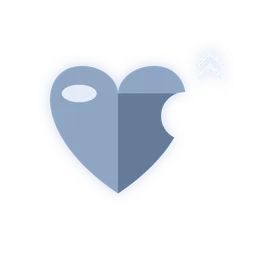
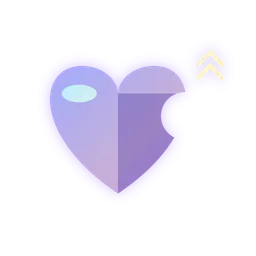
Coraza Titán carga al atacar y al recibir golpes (ataques y habilidades, sin contar quemaduras); el oro de la victoria se cobra en cuanto acaba tu combate (resolveFight desde payCombatGold) y no al resolver la ronda; Pacto Cruel solo prismático y solo en 2-1 (icono en lila); coste 5 a 3★ imposible d

Changed region(s): [[0.1875, 0.25, 0.7188, 0.75], [0.75, 0.1875, 0.875, 0.3125]]

diff --git a/public/game.js b/public/game.js
@@ -105,7 +105,10 @@ const STAR=[1,1.8,3.24];
 // Tanques a 2★: +20% de vida y +15 de defensa y resistencia, para que aguanten lo que cuestan sin ser inmortales con objetos
 const TANK2={hp:1.2,res:15};
 // A 3★ los costes altos se disparan: los costes 4 y 5 de 3 estrellas son casi una victoria asegurada (como en TFT)
-const STAR3_BY_COST=[3.24,3.24,3.4,5,10], ABIL3_BY_COST=[3,3.1,3.3,6,15];
+const STAR3_BY_COST=[3.24,3.24,3.4,5,10], ABIL3_BY_COST=[3,3.1,3.3,6,40];
+// Coste 5 a 3★: imposible de vencer salvo por otro coste 5 a 3★, aunque esté sola (medido con leg3.js alone: 100 % contra tableros de nivel 9
+// con costes 4 a 3★ y costes 5 a 2★, con y sin objetos): empieza con el maná lleno, recupera 40 por segundo y recibe un 30 % menos de daño
+const C5_3={mana:40,dr:.3};
 const ABIL_BASE=[180,250,330,520,600], ABIL_STAR=[1,1.5,2.6];
 const ROLE_NAME={t:'Tanque',b:'Cuerpo a cuerpo',a:'Asesino',r:'Tirador',m:'Mago',h:'Soporte'};
 
@@ -209,6 +212,7 @@ const MEGAS=[
 const ANVILS=[{key:'yunque',name:'Yunque de componentes',names:null,dex:'anvil',cost:1,role:'t',traits:[],ab:[['shield','—',{m:0}]],anvil:'c'},
  {key:'yunque_oro',name:'Yunque de objetos',names:null,dex:'anvil:oro',cost:1,role:'t',traits:[],ab:[['shield','—',{m:0}]],anvil:'f'}];
 const DEF={}; for(const u of [...UNIT_LIST,...EVOS,...MEGAS,...ANVILS]) DEF[u.key]=u;
+for(const u of UNIT_LIST) if(u.cost===5) for(const a of u.ab||[]) a[2].c5=1; // marca para el texto de la habilidad a 3★ (abDesc no conoce el coste)
 DEF.lugia.hpm=1.12; // Lugia: menos daño pero más aguante
 DEF.giratina.mult=.9; // Giratina: empieza más flojo y crece devorando (ghp/gad altos): pide objetos y tiempo
 // Forma de cada estrella. Los costes 4 de 3 formas empiezan en su 2.ª forma (Pupitar, Kirlia, Gabite…):
@@ -448,6 +452,7 @@ function abDesc(ab,P,star){
  if(p.mega) t+=` Forma Mega: cada lanzamiento le da +6% de vida máxima, +8 de poder y +8% de ataque durante el combate.`;
  if(p.selfAs&&k!=='dash') t+=` Gana +${R0(p.selfAs*100)}% de vel. de ataque (se acumula durante el combate).`;
  if(star>=3) t+=` ★★★: cada lanzamiento la hace más fuerte (+20%, o +25% en costes 4 y 5), sin límite.`;
+ if(star>=3&&p.c5) t+=` Coste 5 a ★★★: empieza con el maná lleno, recupera ${C5_3.mana} de maná por segundo y recibe un ${R0(C5_3.dr*100)}% menos de daño.`;
  return t;
 }
 
@@ -473,7 +478,7 @@ const FULL=[
  ['wing','wing','scarf','Pañuelo Elegido','🧣','+30% de velocidad de ataque y +1 de alcance.',{asPct:.3,range:1}],
  ['wing','spoon','rage','Cinta Furia','😤','Cada ataque le da +6% de velocidad de ataque, sin límite durante el combate.',{},{rage:.06}],
  ['wing','water','light','Bola Luminosa','💡','Cada 3 ataques lanza un rayo a 3 enemigos (70 de daño mágico).',{},{zap:70}],
- ['wing','coat','titan','Coraza Titán','🦾','Cada golpe recibido le da +2% de daño (máx. 25 veces).',{},{titan:.02}],
+ ['wing','coat','titan','Coraza Titán','🦾','Gana una carga al atacar y cada vez que le golpean (ataques o habilidades): +2% de daño por carga (máx. 25).',{},{titan:.02}],
  ['wing','goggles','twin','Garra Doble','✌','Sus ataques golpean a un segundo enemigo por el 50%.',{},{split:.5}],
  ['wing','club','quick','Polvo Veloz','💨','+25% de velocidad de ataque y +150 de vida adicionales.',{asPct:.25,hp:150}],
  ['wing','lens','razorfang','Colmillo Afilado','🐺','Sus críticos reducen la defensa del objetivo un 30%.',{},{shred:.3}],
@@ -704,7 +709,7 @@ function rebuildCombat(a,b,R,seed,evs,t){
 }
 function liveItems(p,inst){
  if(G.phase!=='combat') return;
- const f=(G.fights||[]).find(x=>x.a===p||(x.b===p&&!x.ghost)); if(!f||!f.c) return;
+ const f=(G.fights||[]).find(x=>x.a===p||(x.b===p&&!x.ghost)); if(!f||!f.c||f.resolved) return; // ya acabó y se cobró: no se vuelve a simular
  const side=f.a===p?0:1, bk=Object.keys(p.board).find(k=>p.board[k]===inst); if(!bk) return;
  if(!G.mp){ if(!f.c.done) applyLiveItems(f.c,side,bk,inst.items.slice()); return; }
  const t=Math.max(0,Math.ceil(((Date.now()-f.t0)/1000*G.speed)/DT)*DT), ev={t,side,bk,items:inst.items.slice()};
@@ -869,7 +874,7 @@ function applyStats(u,s){
 function baseCombatUnit(d,side,star,rand=Math.random){
  const ro=ROLE[d.role], cm=d.cost-1, s=star>=3?STAR3_BY_COST[cm]:STAR[star-1], em=d.mult||1, ab=abOf(d,star), t2=d.role==='t'&&star>=2, hm=em*(d.hpm||1)*(t2?TANK2.hp:1), rs=t2?TANK2.res:0;
  return {side,d,star,cost:d.cost,name:nameOf(d,star),ab,maxHp:ro.hp*HPM[cm]*s*hm,ad:ro.ad*ADM[cm]*s*em,hp0:ro.hp*HPM[cm]*s*hm,ad0:ro.ad*ADM[cm]*s*em,as:ro.as,range:ro.range,df:ro.df+rs,mr:ro.mr+rs,ap:0,
-   mana:ab[2].mana0!=null?ab[2].mana0:ro.mana,maxMana:ab[2].mm||ro.maxMana,critC:.25,critM:1.4,dodge:0,burnPct:0,manaPerAtk:0,regen:0,manaRegen:0,omni:0,dr:0,bully:0,shock:0,
+   mana:d.cost===5&&star>=3?(ab[2].mm||ro.maxMana):ab[2].mana0!=null?ab[2].mana0:ro.mana,maxMana:ab[2].mm||ro.maxMana,critC:.25,critM:1.4,dodge:0,burnPct:0,manaPerAtk:0,regen:0,manaRegen:d.cost===5&&star>=3?C5_3.mana:0,omni:0,dr:d.cost===5&&star>=3?C5_3.dr:0,bully:0,shock:0,
    focus:false,berry:false,dmgBonus:0,shield:0,shieldT:0,startShield:0,stun:0,sleepT:0,stealth:0,tdr:0,tdrT:0,reflT:0,reflPct:0,empN:0,empDmg:0,empStun:0,glow:0,
    atkCd:.25+rand()*.35,moveCd:rand()*.2,target:null,burns:[],dead:false,kills:0,flash:0,mt:1,role:d.role,items:[],ref:null,sp:{},atkN:0,titanN:0};
 }
@@ -1034,7 +1039,9 @@ function dealDamage(cb,src,t,raw,kind,silent,crit){
  if(t.shield>0){ const a=Math.min(t.shield,dmg); t.shield-=a; dmg-=a; }
  t.hp-=dmg; if(!silent) t.flash=.12;
  if(cb.caster&&src===cb.caster){ cb.cDmg+=dmg; cb.cHits.add(t); }
- if(kind!=='true'){ t.mana+=Math.min(dmg*.04,12); if(t.sp.titan&&t.titanN<25){ t.titanN++; t.dmgBonus+=t.sp.titan; } }
+ if(kind!=='true') t.mana+=Math.min(dmg*.04,12);
+ // Coraza Titán: carga con cada golpe recibido de un enemigo, sea ataque o habilidad, también de daño verdadero; las quemaduras y venenos (silent) no cuentan, o se llenaría al instante
+ if(t.sp.titan&&!silent&&src&&src.side!==t.side) titanStack(t);
  if(t.reflT>0&&src&&src!==t&&kind!=='true'&&!src.dead) dealDamage(cb,t,src,dmg*t.reflPct,'true',true);
  if(src&&src.omni&&!src.dead) heal(src,dmg*src.omni);
  if(!silent&&dmg>=1){ fxText(cb,t,crit?R0(dmg)+'!':R0(dmg),crit?'#ffb400':kind==='magic'?'#7fb6ff':'#ffffff',crit); if(cb.visual) fx(cb,{type:'hit',u:t,src,crit,kind,el:unitEl(src),k:Math.min(1,dmg/Math.max(1,t.maxHp)*4),life:.4}); }
@@ -1087,7 +1094,10 @@ function hitFx(cb,u,e,amt,p){
  if(p.chill) e.chillT=Math.max(e.chillT||0,p.chill);
  if(p.wound) e.woundT=Math.max(e.woundT||0,p.wound);
 }
+// Coraza Titán: +2 % de daño por carga, hasta 25 (carga al atacar y al recibir golpes)
+const titanStack=u=>{ if(u.titanN<25){ u.titanN++; u.dmgBonus+=u.sp.titan; } };
 function attack(cb,u,t){
+ if(u.sp.titan) titanStack(u);
  const crit=cb.rng()<u.critC; const dmg=u.ad*(crit?u.critM:1);
  const el0=u.d.traits&&u.d.traits.find(x=>FX_EL.has(x));
  fx(cb,u.range>1?{type:'proj',fc:u.c,fr:u.r,tc:t.c,tr:t.r,color:typeColor(u.d),el:el0,life:.22,atk:1}:{type:'swing',c:u.c,r:u.r,tc:t.c,tr:t.r,el:el0,life:.18});
@@ -1504,6 +1514,7 @@ function pveLootKeys(p,R){ const L=pveSpec(R); return [...(R.s>1||R.n===3?['mag'
 function payCombatGold(final){
  if(G.phase!=='combat'&&!final) return;
  for(const f of G.fights||[]){ const c=f.c; if(!c||!c.gold) continue; const el=final?Infinity:(Date.now()-(f.t0||0))/1000*G.speed; f.paid=f.paid||[0,0];
+   if(!final&&!f.resolved&&c.done&&el>=c.t){ resolveFight(f); if(!SERVER) renderUI(); } // el resultado (y su oro) al acabar ese combate
    for(const [p,sd] of [[f.a,0],[f.pve||f.ghost?null:f.b,1]]){ if(!p) continue;
      const due=final?c.gold[sd]:(c.goldEv||[]).reduce((a,e)=>a+(e[1]===sd&&e[0]<=el?e[2]:0),0), pay=Math.min(c.gold[sd],due)-f.paid[sd];
      if(pay>0){ p.gold+=pay; f.paid[sd]+=pay; p.combatGold=(p.combatGold||0)+pay; } } }
@@ -1734,29 +1745,22 @@ const MEW_MAX=16;
 function mewWin(w,l){ if(!w||!l||!tacOf(w).mimic) return; const d=tacDex(l); if(!d||d===tacOf(w).dex[0]) return;
  w.mewSk=w.mewSk||[]; if(!w.mewSk.includes(d)&&w.mewSk.length<MEW_MAX) w.mewSk.push(d); w.mewF=d; w.mewN=(w.mewN|0)+1;
  note(w,`✨ Mew toma la forma de la minileyenda de ${l.name}`); }
-function resolveRound(){
- if(G.phase!=='combat') return;
- const R=G.round, base=STAGE_DMG[R.s]||22, me=G.me; const msgs=new Map(), extraGold={}, gold0=new Map(G.players.map(p=>[p,p.gold]));
- const won=new Map();
- const say=(p,m)=>msgs.set(p,m);
- for(const f of G.fights) if(f.c&&!f.c.done) simulate(f.c);
- payCombatGold(true);
- for(const p of G.players) if(p.combatGold){ extraGold[p.id]=p.combatGold; p.combatGold=0; }
- for(const f of G.fights){
-   const c=f.c; if(!c.done) simulate(c);
+// Resultado de un combate: victoria o derrota, vida, racha, eventos de los aumentos y Cazatesoros. Se aplica en cuanto ESE combate acaba
+// en tiempo real (payCombatGold), así el oro de la victoria se cobra al momento y no al terminar la ronda; resolveRound remata los que falten
+function resolveFight(f){
+ if(f.resolved) return; f.resolved=true;
+ const R=G.round, base=STAGE_DMG[R.s]||22, c=f.c, won=new Map(), msgs=new Map(), say=(p,m)=>msgs.set(p,m); if(!c.done) simulate(c);
    for(const u of c.units) if(u.ref&&u.kills) u.ref.kills+=u.kills;
-   const addG=()=>{};
    if(f.pve){
-     const p=f.a, w=c.winner===0; won.set(p,w); addG(p,c.gold[0]);
+     const p=f.a, w=c.winner===0; won.set(p,w);
      if(!w){ const d=base+survivors(c,1); p.hp-=d; p.lastDmg=d; }
      // Si el imán no llegó a caer (no derrotó a ninguno), se entrega igualmente
      if(f.lootKeys&&f.lootKeys.includes('mag')) giveItem(p,'magnet');
      if(f.lootKeys) for(const k of f.lootKeys.filter(k=>k==='c'||k==='ca'||k==='fa')) dropOrb(p,k); // componentes y yunques que no llegaron a caer: se dejan en el suelo igualmente
      const loot=f.lootKeys?[]:pveLoot(p,R,w);
      say(p,(w?'🐾 Ronda PvE superada':`🐾 Los salvajes te ganaron: −${p.lastDmg} de vida`)+(loot.length?' · Botín: '+loot.join(' · '):''));
-     continue;
-   }
-   const A=f.a,B=f.b; addG(A,c.gold[0]); if(!f.ghost) addG(B,c.gold[1]);
+   } else {
+   const A=f.a,B=f.b;
    if(c.winner===0){ win(A); won.set(A,true); if(!f.ghost){ lose(B,base+survivors(c,0)); won.set(B,false); } }
    else if(c.winner===1){ lose(A,base+survivors(c,1)); won.set(A,false); if(!f.ghost){ win(B); won.set(B,true); } }
    else { lose(A,base+survivors(c,1)); won.set(A,false); if(!f.ghost){ lose(B,base+survivors(c,0)); won.set(B,false); } }
@@ -1768,14 +1772,22 @@ function resolveRound(){
    if(!f.ghost) say(B,c.winner===1?`✅ Victoria contra ${A.name}`:c.winner===0?`❌ Derrota contra ${A.name}: −${B.lastDmg} de vida`:`⏱ Empate por tiempo con ${A.name}: −${B.lastDmg} de vida`);
  }
  // Eventos de los aumentos, después de apuntar el resultado (una sola vez por combate)
- for(const f of G.fights){ const c=f.c, sides=f.pve?[[f.a,0,null]]:[[f.a,0,f.b],...(f.ghost?[]:[[f.b,1,f.a]])];
+ { const sides=f.pve?[[f.a,0,null]]:[[f.a,0,f.b],...(f.ghost?[]:[[f.b,1,f.a]])];
    for(const [p,side,o] of sides){ const w=c.winner===side, n=c.units.filter(u=>u.side===side&&!u.dead).length, k=c.units.filter(u=>u.side===side).reduce((a,u)=>a+u.kills,0);
      augFire(p,w?'win':'lose',{pve:!!f.pve,opp:o?o.id:null,streak:p.streak}); augFire(p,'survive',{n}); augFire(p,'kills',{n:k}); if(!w) augFire(p,'damaged',{d:p.lastDmg||0}); const us=c.units.filter(u=>u.side===side), cs={atk:us.reduce((a,u)=>a+(u.atkN||0),0),phys:us.reduce((a,u)=>a+(u.sPhys||0),0),taken:us.reduce((a,u)=>a+(u.sTank||0),0),mana:us.reduce((a,u)=>a+(u.castN||0)*(u.maxMana<9999?u.maxMana:0),0)};
      augFire(p,'roundEnd',{won:w,pve:!!f.pve,cs,firstKill:c.firstKill?c.firstKill[side]:null}); } }
  // Cazatesoros: botín tras cada combate (apuntado para la ficha de la sinergia)
- for(const p of alivePlayers()){ const tier=traitTiers(p)['Cazatesoros']||0; if(!tier) continue; const w=won.get(p);
+ for(const p of (f.pve||f.ghost?[f.a]:[f.a,f.b]).filter(q=>q.alive)){ const tier=traitTiers(p)['Cazatesoros']||0; if(!tier) continue; const w=won.get(p);
    lootTrack(p,()=>{ if(p.mods.lucky) p.gold+=2; if(w){ const st=Math.min(3,Math.max(0,p.streak-1)); p.gold+=(tier>=3?4:tier>=2?0:2)+st; if(tier>=2){ const out=[]; openOrb(p,G.round.s<=2?'gray12':'blue123',out); if(isHuman(p)) note(p,'💎 Cazatesoros: '+out.join(', '),false); } } else p.gold+=tier>=3?4:tier>=2?2:1; }); }
  for(const [p,m] of msgs) if(isHuman(p)) note(p,m,false);
+}
+function resolveRound(){
+ if(G.phase!=='combat') return;
+ const me=G.me, extraGold={};
+ for(const f of G.fights) if(f.c&&!f.c.done) simulate(f.c);
+ payCombatGold(true);
+ for(const p of G.players) if(p.combatGold){ extraGold[p.id]=p.combatGold; p.combatGold=0; }
+ for(const f of G.fights) resolveFight(f);
  for(const p of G.players) if(isHuman(p)&&extraGold[p.id]) note(p,`💰 Oro ganado en combate: +${extraGold[p.id]} de oro`,false);
  const dead=G.players.filter(p=>p.alive&&p.hp<=0).sort((a,b)=>a.hp-b.hp);
  let n=alivePlayers().length;

diff --git a/test/sinergias.js b/test/sinergias.js
@@ -567,6 +567,21 @@ const combatUnits = (p, foeBoard) => { const cb = E.createCombatSnap(E.teamSnap(
   { const { G, p } = fresh(); G.phase = 'planning'; p.bench = keys.slice(0, 9).map(k => mk(k)); p.orbs = [{ id: 923, tier: 'gray', toks: ['ca'], c: 2, r: 5 }];
     ok(run('orbUnits')(p.orbs[0]) === 1 && run('openPlayerOrb')(p, 923, false) === null && p.orbs.some(o => o.id === 923), 'banca llena: el orbe con yunque espera en el suelo');
     p.bench[0] = null; ok(!!run('openPlayerOrb')(p, 923, false) && p.bench.some(u => u && u.defId === 'yunque'), 'con un hueco libre el yunque entra en la banca'); } }
+// Coste 5 a 3★: maná lleno al empezar, 40 de maná por segundo y 30 % menos de daño (solo a 3★); una sola gana a un tablero de 8 costes 4 a 2★
+{ const c5 = E.UNIT_LIST.filter(u => u.cost === 5).map(u => u.key), C = vm.runInContext('C5_3', ctx);
+  ok(c5.every(k => { const u3 = E.baseCombatUnit(E.DEF[k], 0, 3), u2 = E.baseCombatUnit(E.DEF[k], 0, 2); return u3.mana === u3.maxMana && u3.manaRegen === C.mana && u3.dr === C.dr && !u2.manaRegen && !u2.dr; }), 'coste 5 a 3★: maná lleno, regeneración y reducción de daño (y a 2★ nada de eso)');
+  const c4 = E.UNIT_LIST.filter(u => u.cost === 4).map(u => u.key), foe = { ag: [], m: {}, u: c4.slice(0, 8).map((k, i) => [['3,0', '2,0', '4,0', '1,0', '5,0', '3,3', '2,3', '4,3'][i], k, 2, [], 0, 0]) };
+  let w = 0; for (const k of c5) { const cb = E.createCombatSnap({ ag: [], m: {}, u: [['3,0', k, 3, [], 0, 0]] }, foe, { s: 6, n: 2 }, { seed: 7 }); E.simulate(cb); if (cb.winner === 0) w++; }
+  ok(w === c5.length, `coste 5 a 3★: sola y sin objetos gana a 8 costes 4 a 2★ (${w}/${c5.length})`); }
+// El oro de la victoria se cobra en cuanto acaba tu combate, con la ronda aún en marcha, y no se cobra otra vez al resolver la ronda
+{ const run = s => vm.runInContext(s, ctx), mk = (k, s) => Object.assign(run(`makeInst('${k}')`), { star: s });
+  const { G, p } = fresh(); G.phase = 'planning'; G.roundIdx = 4; G.round = E.ROUNDS[4]; p.mods.winGold = 5; p.streak = 0;
+  for (const q of G.players) { q.bench = q.bench.map(() => null); q.board = q === p ? { '3,0': mk('machop', 3), '2,0': mk('charmander', 3), '4,0': mk('squirtle', 3) } : { '3,0': mk('magikarp', 1) }; }
+  run('startCombat')(); const f = G.fights.find(x => x.a === p || x.b === p); E.simulate(f.c); const side = f.a === p ? 0 : 1;
+  ok(f.c.winner === side, 'oro de la victoria: montaje (tu equipo gana)');
+  const g0 = p.gold; f.t0 = Date.now() - 1000 * f.c.t / G.speed - 50; run('payCombatGold')(false);
+  ok(G.phase === 'combat' && f.resolved && p.gold >= g0 + 5 && p.streak === 1, `oro de la victoria: se cobra al acabar tu combate (+${p.gold - g0} de oro, ronda aún en combate)`);
+  const g1 = p.gold; run('resolveRound')(); ok(p.streak === 1 && p.gold === g1 && p.history.filter(h => h === 'W').length === 1, 'oro de la victoria: al resolver la ronda no se cobra dos veces'); }
 // Elección pendiente (yunque) abierta al empezar el combate: la persona elige después y recibe el objeto (solo bots y ausentes eligen solos)
 { const run = s => vm.runInContext(s, ctx);
   const { G, p } = fresh(); G.phase = 'planning'; p.bench = p.bench.map(() => null); p.bench[0] = run(`makeInst('yunque_oro')`); G.round = E.ROUNDS[G.roundIdx];

diff --git a/.claude/skills/autochess-balance-simulator/scripts/leg3.js b/.claude/skills/autochess-balance-simulator/scripts/leg3.js
@@ -1,6 +1,10 @@
 // Coste 5 a 3★ (con 3 objetos de su rol) + 6 fichas de apoyo a 2★ contra tableros fuertes de nivel 9 (2★ de coste 4 con objetos)
 const fs=require('fs'),path=require('path'),vm=require('vm');
-// Uso: node leg3.js [raíz=.] [partidas=40] [solo=clave] [hard]   (hard: 6 costes 4 y 2 costes 5 a 2★, todos con objetos)
+// Uso: node leg3.js [raíz=.] [partidas=40] [solo=clave] [hard] [alone] [noitems] [vs5]
+//   hard: 6 costes 4 y 2 costes 5 a 2★, todos con objetos · alone: el coste 5 a 3★ sin compañeros · noitems: sin sus objetos
+//   vs5: contra cada uno de los otros costes 5 a 3★ (con sus objetos), también solos
+//   max: 2 costes 4 a 3★, 2 costes 5 a 2★ y 4 costes 4 a 2★ · reroll: 8 fichas de coste 1-3 a 3★ (todas con objetos)
+// Para comparar con otra versión, pasa como raíz una carpeta con public/augments.js y public/game.js de esa versión
 const ROOT=process.argv[2]||'.';
 const ctx={__SERVER__:true,module:{exports:{}},console,setTimeout,clearTimeout,setInterval,clearInterval}; vm.createContext(ctx);
 vm.runInContext(['augments.js','game.js'].map(f=>fs.readFileSync(path.join(ROOT,'public',f),'utf8')).join('\n'),ctx);
@@ -12,14 +16,15 @@ function snap(list){ const used=new Set(); return {m:{},u:list.map(([k,s,items])
 const c4=E.UNIT_LIST.filter(u=>u.cost===4).map(u=>u.key), c3=E.UNIT_LIST.filter(u=>u.cost===3).map(u=>u.key);
 let seed=1; const rnd=()=>{ seed=(seed*16807)%2147483647; return seed/2147483647; };
 const pickN=(a,n)=>{ const c=a.slice(), o=[]; while(o.length<n&&c.length) o.push(c.splice(Math.floor(rnd()*c.length),1)[0]); return o; };
-const N=+process.argv[3]||40, only=process.argv[4];
+const N=+process.argv[3]||40, only=process.argv[4]&&process.argv[4]!=='-'?process.argv[4]:null, alone=process.argv.includes('alone'), noit=process.argv.includes('noitems'), vs5=process.argv.includes('vs5'), max=process.argv.includes('max'), reroll=process.argv.includes('reroll');
+const c13=E.UNIT_LIST.filter(u=>u.cost<=3&&!E.DEF[u.key].evoOf).map(u=>u.key);
 for(const L of E.UNIT_LIST.filter(u=>u.cost===5&&(!only||u.key===only))){
  let w=0;
  for(let i=0;i<N;i++){
-  const sup=pickN(c3.concat(c4),6).map(k=>[k,2,[]]);
-  const A=snap([[L.key,3,it(L.key)],...sup]);
+  const sup=alone?[]:pickN(c3.concat(c4),6).map(k=>[k,2,[]]);
+  const A=snap([[L.key,3,noit?[]:it(L.key)],...sup]);
   const hard=process.argv[5]==='hard'; const foe=pickN(c4,hard?6:7).map((k,j)=>[k,2,hard||j<3?it(k):[]]); for(const k5 of pickN(E.UNIT_LIST.filter(u=>u.cost===5&&u.key!==L.key).map(u=>u.key),hard?2:1)) foe.push([k5,2,hard?it(k5):[]]);
-  const B=snap(foe);
+  const o5=E.UNIT_LIST.filter(u=>u.cost===5&&u.key!==L.key)[i%9].key, B=vs5?snap([[o5,3,it(o5)]]):max?snap([...pickN(c4,2).map(k=>[k,3,it(k)]),...pickN(E.UNIT_LIST.filter(u=>u.cost===5&&u.key!==L.key).map(u=>u.key),2).map(k=>[k,2,it(k)]),...pickN(c4,4).map(k=>[k,2,it(k)])]):reroll?snap(pickN(c13,8).map(k=>[k,3,it(k)])):snap(foe);
   const cb=E.createCombatSnap(A,B,{s:6,n:2},{seed:1000+i}); E.simulate(cb); if(cb.winner===0) w++;
  }
  console.log(L.key.padEnd(10),(100*w/N).toFixed(0)+'%');

diff --git a/public/augments.js b/public/augments.js
@@ -339,7 +339,7 @@ AG({id:'vanguardia',tier:'S',cat:'carry',tags:['Guardián','Coloso'],name:'Cimie
    const t=u.traits.find(x=>CLASS_TRAITS.includes(x)); c.item('emb_'+t); c.say(`${nameOf(u,2)} ★★ y emblema ${t}`); }}});
 
 // ===== Clásicos (estadísticas y recursos directos) =====
-AG({id:'pacto_cruel',tier:'S',cat:'fast',tags:['fast'],name:'Pacto Cruel',icon:'🩸',desc:'Comprar EXP te cuesta vida en lugar de oro mientras tengas más de 20: 2 de vida hasta nivel 5 y 1 más por cada nivel desde ahí (3 a nivel 6, 4 a nivel 7…). Como mucho 8 compras así por ronda.',on:{select:c=>{ c.p.mods.xpHp=2; }}});
+AG({id:'pacto_cruel',tier:'P',cat:'fast',tags:['fast'],req:ST(2),name:'Pacto Cruel',icon:'🩸',desc:'Comprar EXP te cuesta vida en lugar de oro mientras tengas más de 20: 2 de vida hasta nivel 5 y 1 más por cada nivel desde ahí (3 a nivel 6, 4 a nivel 7…). Como mucho 8 compras así por ronda.',on:{select:c=>{ c.p.mods.xpHp=2; }}});
 AG({id:'pandora',tier:'S',cat:'risk',name:'Objetos de Pandora',icon:'📦',desc:'Recibes 1 componente. Al empezar cada ronda, los objetos de tu inventario cambian al azar por otros de su tipo: componentes por componentes, completos por completos, insignias por otras insignias y emblemas por otros emblemas (p. ej. el Emblema Acero puede volverse Emblema Agua).',
  on:{select:c=>c.comp(),roundStart:c=>{ c.p.items=c.p.items.map(pandoraCambio); }}});
 // Objetos de Pandora: cada objeto cambia por otro de su familia; insignias y emblemas siempre por uno distinto
@@ -785,5 +785,5 @@ const CAT_IMG={econ:"amulet-coin",fast:"exp-candy-xl",reroll:"repeat-ball",emble
 for(const a of AUGS){ const v=AUG_IMG[a.id]!=null?AUG_IMG[a.id]:CAT_IMG[a.cat]; if(v!=null) a.img=typeof v==='number'?`https://raw.githubusercontent.com/PokeAPI/sprites/master/sprites/pokemon/${v}.png`:/^b\d+$/.test(v)?`https://raw.githubusercontent.com/PokeAPI/sprites/master/sprites/badges/${v.slice(1)}.png`:`https://raw.githubusercontent.com/PokeAPI/sprites/master/sprites/items/${v}.png`; }
 // Icono propio (img/aug/<id>.webp, estilo TFT ya teñido con su rareza; iconos-aumentos-tft.js de la skill de recursos): todos menos los
 // de héroe, que siguen con la ilustración de su Pokémon. Al cambiar iconos o rarezas, regenera y sube AUG_ICO_V (el navegador guarda las imágenes 7 días).
-const AUG_ICO_V=4;
+const AUG_ICO_V=5;
 for(const a of AUGS) if(!a.hero) a.ico=`img/aug/${a.id}.webp?v=${AUG_ICO_V}`;

diff --git a/public/i18n-en.js b/public/i18n-en.js
@@ -172,7 +172,7 @@ Object.assign(I18N.EN, {
   'Cada {0} ataques lanza un rayo a {1} enemigos ({2} de daño mágico).': 'Every {0} attacks fires a bolt at {1} enemies ({2} magic damage).',
   'Cada {0}s cura a todo el equipo un {1}% de su vida máx.': 'Every {0}s heals the whole team for {1}% of their max health.',
   'Cada ataque le da +{0}% de velocidad de ataque, sin límite durante el combate.': 'Each attack grants +{0}% attack speed, with no cap during combat.',
-  'Cada golpe recibido le da +{0}% de daño (máx. {1} veces).': 'Each hit taken grants +{0}% damage (max {1} times).',
+  'Gana una carga al atacar y cada vez que le golpean (ataques o habilidades): +{0}% de daño por carga (máx. {1}).': 'Gains a stack when attacking and every time it is hit (attacks or abilities): +{0}% damage per stack (max {1}).',
   'Empieza con un escudo del {0}% de su vida máx. ({1}s).': 'Starts with a shield of {0}% max health ({1}s).',
   'Gana +{0} de poder de habilidad por segundo en combate.': 'Gains +{0} ability power per second in combat.',
   'Guante ladrón: cada ronda recibe {0} objetos completos al azar (cambian al empezar la ronda). Ocupa los {1} huecos: quien lo lleva no puede llevar otros objetos. +{2}% de prob. crítica.': 'Thief’s glove: each round it receives {0} random full items (they change at the start of the round). Takes up all {1} slots: the holder cannot carry other items. +{2}% crit chance.',

diff --git a/CLAUDE.md b/CLAUDE.md
@@ -56,8 +56,8 @@ El detalle, con los nombres de las funciones, está en la skill `autochess-syste
   - interés de 1 por cada 10 de oro (máximo 5);
   - racha de 2-3 da +1, de 4 da +2 y de 5 o más da +3;
   - refrescar la tienda cuesta 2; comprar EXP cuesta 4 por 4 EXP;
-  - el oro se cobra al momento: el de combate (Día de Pago, Gholdengo, Team Rocket, aumentos…) en el segundo en que se gana (`cb.goldEv`, apuntado en `stepCombat`; `payCombatGold` lo paga según avanza el combate y lo que quede al resolver) y el de los resultados (victoria, Cazatesoros, aumentos) al resolver la ronda, así cuenta para el interés de la siguiente.
-- **Estrellas y formas**: los costes 4 de 3 formas empiezan en su 2.ª forma (`formIdx`): a 2★ ya son la forma final con su mejor habilidad. Su nombre (`d.name`, que sale en la tienda, la ficha, los avisos y el registro) es el de esa 2.ª forma (Pupitar, Shelgon, Lampent…; `U` en `[DATA]`), igual que su retrato. A 3★ las estadísticas usan `STAR3_BY_COST=[3.24,3.24,3.4,5,10]` y las habilidades `ABIL3_BY_COST=[3,3.1,3.3,6,15]` (los costes 4 a 3★ son casi victoria segura y los costes 5 a 3★ borran el tablero: medido con `leg3.js` de la skill del simulador, 93-100 % contra tableros de nivel 9 con 6 costes 4 a 2★ y 2 costes 5 a 2★, todos con objetos; solo pierden contra otro coste 5 a 3★). Ayudas propias a 3★: Kyogre hace el maremoto cada 2 lanzamientos (`n3`), Giratina golpea también a 2 casillas de su presa (`aoe3`) y Mewtwo usa radio 2 (`r3`). Además, a 3★ cada lanzamiento suma +20 % de poder (+25 % en costes 4 y 5) durante el combate, sin límite (`u.castBoost`).
+  - el oro se cobra al momento: el de combate (Día de Pago, Gholdengo, Team Rocket, aumentos…) en el segundo en que se gana (`cb.goldEv`, apuntado en `stepCombat`; `payCombatGold` lo paga según avanza el combate y lo que quede al resolver) y el de los resultados (victoria, Cazatesoros, aumentos) **en cuanto acaba tu combate**, no al resolver la ronda: `resolveFight(f)` aplica el resultado de cada combate (victoria o derrota, vida, racha, eventos de los aumentos y Cazatesoros) cuando su tiempo real llega al final (`payCombatGold`, `f.resolved`) y `resolveRound` solo remata los que falten, las eliminaciones y el paso de ronda; un combate ya resuelto no se vuelve a simular por objetos en directo (`liveItems`). Cuenta para el interés de la siguiente.
+- **Estrellas y formas**: los costes 4 de 3 formas empiezan en su 2.ª forma (`formIdx`): a 2★ ya son la forma final con su mejor habilidad. Su nombre (`d.name`, que sale en la tienda, la ficha, los avisos y el registro) es el de esa 2.ª forma (Pupitar, Shelgon, Lampent…; `U` en `[DATA]`), igual que su retrato. A 3★ las estadísticas usan `STAR3_BY_COST=[3.24,3.24,3.4,5,10]` y las habilidades `ABIL3_BY_COST=[3,3.1,3.3,6,40]`. **Un coste 5 a 3★ no puede perder salvo contra otro coste 5 a 3★, aunque esté solo** (`C5_3`: empieza con el maná lleno, recupera 40 de maná por segundo y recibe un 30 % menos de daño; habilidad ×40 en vez de ×15): medido con `leg3.js … alone` (solo, sin compañeros), el 100 % de los 10 contra tableros de nivel 9 con 6 costes 4 y 2 costes 5 a 2★, con 2 costes 4 a 3★ (`max`) y con 8 fichas de coste 1-3 a 3★ (`reroll`), todos con objetos, tenga o no los suyos; antes, solos, Groudon, Lugia y Darkrai se quedaban en 53-63 % contra `max`. Entre dos costes 5 a 3★ (`vs5`) sigue habiendo combate (15-100 % según la pareja). El texto de la habilidad a 3★ lo dice (`c5` marca sus habilidades). Antes, con `ABIL3_BY_COST` en 15 (los costes 4 a 3★ son casi victoria segura y los costes 5 a 3★ borran el tablero: medido con `leg3.js` de la skill del simulador, 93-100 % contra tableros de nivel 9 con 6 costes 4 a 2★ y 2 costes 5 a 2★, todos con objetos; solo pierden contra otro coste 5 a 3★). Ayudas propias a 3★: Kyogre hace el maremoto cada 2 lanzamientos (`n3`), Giratina golpea también a 2 casillas de su presa (`aoe3`) y Mewtwo usa radio 2 (`r3`). Además, a 3★ cada lanzamiento suma +20 % de poder (+25 % en costes 4 y 5) durante el combate, sin límite (`u.castBoost`).
 - **Clases** (`applyTraits` + enganches en `dealDamage`/`castAbility`/`stepCombat`), inspiradas en TFT: Guardián = guardaespaldas (provocan durante 2 s a los 1,5 s con escudo y se plantan mientras, `bodyguard`), Coloso = los pesos pesados (7 fichas: vida a todo el equipo, doble para ellos), **Peleador** = el Brawler de TFT (9 melés ágiles: +vida máx. % y, al bajar del 50 %, furia con +vel. de ataque y daño; `u.fury`/`furyOn` en `dealDamage`), Tirador = +daño por casilla de distancia (`hexAmp`), Hechicero = académicos (+poder cada vez que un aliado lanza, `scholar`), Asesino = críticos y habilidades críticas (`critAbil`) y, al bajar del 50 % de vida, se esfuman unos segundos (`vanish`: los enemigos dejan de apuntarles; ya no saltan a la retaguardia al empezar y sus saltos de habilidad solo llegan a 3 casillas), Sanador = encantadores (+curas y escudos de habilidad para todo el equipo, `healAmp`, y resistencia), Fortuna = dado de oro tras cada combate, **Rival** = retadores (+vel. y acelerón con salto al matar, `rival`/`rushT`) y **Team Rocket** = quimtech (al bajar del 60 %: reducción de daño, velocidad y regeneración 4 s, `rocket`).
 - **Resonancia legendaria** (sinergia Legendario, `LEG_RES` en `applyTraits`): cada Legendario multiplica vida, ataque y habilidad según los niveles activos de sus otras sinergias, contando solo a los Pokémon no legendarios (`Tt.nl` en `traitTiers`): ×0,92 sin apoyo hasta ×1,5 con 5 niveles. Así llenar el tablero de legendarios no gana solo y cada uno pide su arquetipo. La ficha lo muestra.
 - **Tanques y soportes**: los tanques a 2★ y 3★ ganan +20 % de vida y +15 de defensa y resistencia (`TANK2`); `d.scale` fuerza el escalado de una ficha (Bagon/Salamence es tanque con escalado de poder, `scale:'ap'`: «Mago tanque» en la ficha); `d.hpm` da vida extra a una ficha concreta (Lugia). Meganium, Wigglytuff y Lapras son **tanques sanadores** (rol `t`, en primera línea, curan con su vida); los soportes de retaguardia (Clefable, Togekiss, Mismagius, Gardevoir, Ho-Oh) curan al aliado con menos vida o a todo el equipo.
@@ -96,8 +96,9 @@ El detalle, con los nombres de las funciones, está en la skill `autochess-syste
   - **Sin empujones salvo en coste 5 (2 de noviembre de 2026)**: Ivysaur (Látigo Cepa), Machoke (Sísmico) y Nidoran♀ (Doble Patada) ya no lanzan al objetivo hacia atrás: lo aturden 1,5 s (`knock` sin `k`, «Golpe aturdidor»); Blastoise (Hidrocañón) ya no empuja con su ola: aturde 1,5 s a cada golpeado y su daño baja de 1,2 a 0,6. Las atracciones también: Telequinesis de Kadabra es una explosión en radio 2 sobre el objetivo (`blast`, daño 0,8 → 0,85) que **solo aturde 1 s a los 2 golpeados más cercanos al centro** (`stunN`; aturdir 1,5 s a todo el área era demasiado fuerte, 60/62 %), y Mundo Sombrío de Dusknoir un golpe en radio 2 a su alrededor (`nova`) que aturde 1,5 s; ninguno mueve a nadie (Kadabra 2★ 53/56 % → 51/56 %; Dusknoir 3★ igual, 14/6 %). Lugia (coste 5) es la única ficha que sigue desplazando. Medido con `balance.js unit` (40 semillas por pareja, espejo/composición natural): empujar perjudicaba a estos tanques (alejaba a los enemigos de la primera línea); sin empujón, Blastoise 3★ subía de 48/59 % a 59/74 % con cualquier aturdimiento de 0,8 a 1,5 s, y con la ola a 0,6 queda en 42/61 %; Ivysaur 2★ 48/55 % → 52/61 % (no depende del daño ni del aturdimiento), Machoke 2★ 26/35 % → 27/32 % y Nidoran♀ 1★ 41/22 % → 43/20 %. Efecto secundario: el héroe de Raichu (¡Emocionado!) rendía menos contra rivales que ahora aturden (Machoke, Kadabra) a la ficha que antes alejaban (media de 4 rivales, ×1,26 → ×1,06); su velocidad de ataque inicial sube de +25 % a +40 % y queda en ×1,14 (con +50 %, ×1,47). La prueba de los héroes promedia ahora 4 rivales distintos: sin azar al elegir objetivo las semillas apenas cambian el combate.
   - Salamence: mucho más tanque (`hpm:1.3`, escudo 35 % y −35 % de daño) y su Draco Meteoro solo cae en radio 1 de la zona con más enemigos (`r` en `meteor`). Lucario: hipercarry de velocidad de ataque (`empower` de 4 golpes y +25 % de vel. por lanzamiento; un eco suma golpes). Houndoom: el fuego se queda en el suelo 3 s (`ground`/`gm` en `cone`).
   - **Depredadores, Asesino y Siniestro (27 de octubre de 2026)**, medidos con `balance.js` de la skill del simulador (ficha a ficha contra las demás de su coste y estrella con objetos ideales, en espejo —mismos compañeros— y con su composición natural, más objetos malos; y las sinergias por escalón contra tableros del mismo coste sin ellas). Depredadores: +6/10/15 % de vel. de ataque (30 % prismático), acelerón +20/30/40 % (60 %) y maná por baja 12/20/25 % (35 %), solo una vez cada 2,5 s (`RIVAL_CD`, `u.rivalCd`; antes, con 6, cada baja reiniciaba la habilidad y un remate se relanzaba al tick siguiente y limpiaba la mesa). Asesino: +10/18/22 % de prob. crítica y +10/15/20 % de daño crítico (prismático +25/+20). Siniestro: remata por debajo del 10/11 % (13 % prismático) y cada remate da +2/2 % (5 %) al equipo. Fichas: Garchomp (Terremoto 0,44), Rapidash (0,85/0,49), Absol (0,72), Scizor (0,84), Raticate (1,05), Zoroark (1,1), Sableye (0,92), Houndoom (0,56 y suelo 0,4), Muk (0,85/0,9) y Dugtrio (0,7). Resultado: casi todas sus fichas quedan en 38-60 % en espejo (antes Garchomp 93 %, Rapidash 80-86 %, Scizor 3★ 80 %) y las sinergias a 2/4/6 en 34-62 % (antes 60-88 %). El combo (6 de los 8 Depredadores son también Asesinos) lo daba sobre todo Depredadores: sin esa sinergia Absol 3★ con su composición bajaba del 84 % al 50 %; tras bajarla, Absol 3★ con su composición e ideales queda en 76 %, Rapidash 72 % y Scizor 61 %, y con objetos malos en 5-13 %: los reroll a 3★ siguen fuertes solo con sus objetos ideales. Los costes 4 se miden a 2★ (47-54 % en espejo, 8 % con objetos malos). Los escalones prismáticos (con emblema) siguen en 72-83 %.
+  - **Coraza Titán** (`titan`): gana una carga al atacar y cada vez que la golpea un enemigo, con ataque o habilidad, también de daño verdadero (`titanStack`; las quemaduras y venenos, `silent`, no cuentan, o se llenaría al instante): +2 % de daño por carga, máx. 25. Antes solo cargaba al recibir daño no verdadero.
   - Sinergias: Lucha da ataque y poder además de robo de vida; Agua carga más maná y su oleada sale cada 4/3/2 habilidades y escala con el poder de quien la lanza; Acero suma defensa y resistencia.
-  - Pacto Cruel: la vida por compra sube con el nivel (`xpHpCost`) y hay un máximo de 8 compras por ronda (`XP_HP_MAX`, `p.xpHpN`, viaja en `priv.xh`): a nivel 6 se llega en 2-1, a 7 no.
+  - Pacto Cruel: **solo prismático y solo en 2-1** (`tier:'P'`, `ST(2)`; su icono se regeneró en lila). La vida por compra sube con el nivel (`xpHpCost`) y hay un máximo de 8 compras por ronda (`XP_HP_MAX`, `p.xpHpN`, viaja en `priv.xh`): a nivel 6 se llega en 2-1, a 7 no.
   - Aumentos: economía, reroll de costes 1-2, misiones y planes lentos pesan ×1,6 en 2-1 y los lentos ×0,5 en 4-2 (`augWeight`); Zona Safari solo sale en 2-1 y da 20 de oro, 2 costes 5 a 2★, un objeto completo y un emblema; los planes lentos sin fase (Huevo, Crianza, Evolución Temprana…) ya no salen en 4-2. `ST` es una función declarada para poder usarla en cualquier aumento.
   - **Fichas nuevas** (todas con el modelo oficial animado de 06wj y con los retratos que ya existían para las minileyendas): Voltorb/Electrode (coste 1, tanque Eléctrico/Guardián, Autodestrucción), Slowpoke/Slowbro (coste 2, mago tanque Agua/Psíquico/Hechicero con `scale:'ap'`; Paz Mental es un meteoro en radio 1 con escudo), Nidoran♀→Nidoqueen (coste 2, tanque Roca/Guardián/Potencial Evolutivo), Nidoran♂→Nidoking (coste 2, melé Roca/Peleador/Potencial Evolutivo), Hitmonchan (coste 3, tanque Lucha/Guardián), Magmar (coste 3, mago tanque Fuego/Coloso/Hechicero: zona de fuego a su alrededor), Grimer/Muk (coste 3, tanque Siniestro/Coloso/Team Rocket: veneno en área) y Staryu/Starmie (coste 4, tirador Agua/Psíquico/Tirador). Onix gana Acero (tanque Acero de coste 2); Turtwig y Beldum dejan Potencial Evolutivo (queda en 4 costes 1, 2 costes 2 y 2 costes 4). El coste 4 de Lucha que sustituyó a Timburr es Cubone→Marowak (`cubone`, mismas sinergias, números y mecánica `spill`: Golpe Óseo y Huesomerang). Psyduck y Tauros salen de la tienda (siguen como minileyendas). Así cada línea de tipo tiene al menos un tanque y Hechicero pasa de 1 a 3 tanques.
 - **Clases fusionadas**: Depredadores (antes Rival; recuperan maná al matar), Cazatesoros (antes Fortuna; el botín se apunta con `lootTrack` en `p.loot`, viaja en `priv.lt` y se ve al tocar la sinergia) y Potencial Evolutivo (`growPotential`: vida, ataque y poder permanentes cada ronda, ×1/×1,5/×2,5 según su estrella y +4 % por cada estrella de todo el tablero, para que escale igual con costes 4 a 2★ que con reroll a 3★).
